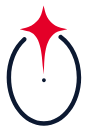
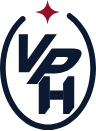
Use final VPH Haulage mark in Signature Studio
Claude-Session: https://claude.ai/code/session_01RbwAuCJofvvzkrLToRYbsK

diff --git a/public/signature.html b/public/signature.html
@@ -74,7 +74,7 @@ textarea{position:absolute;left:-9999px}
 // Shared signature builder: email-safe table HTML, inline styles only.
 function vpcSignature(o){
   const B = o.brand==='haulage'
-    ? {ink:'#0C1931',accent:'#970F27',org:'VirgoPoint Haulage',sub:'A Member of Virgo Point Capital',logo:o.logoBase+'haulage-sig-mark@2x.png',lw:44,lh:66,line:'Built on trust.'}
+    ? {ink:'#0C1931',accent:'#970F27',org:'VirgoPoint Haulage',sub:'A Member of Virgo Point Capital',logo:o.logoBase+'haulage-sig-mark@2x.png',lw:48,lh:65,line:'Built on trust.'}
     : {ink:'#0C1931',accent:'#E40028',org:'Virgo Point Capital',sub:'',logo:o.logoBase+'vpc-sig-emblem@2x.png',lw:48,lh:65,line:'move with legacy…'};
   const esc=s=>String(s||'').replace(/&/g,'&amp;').replace(/</g,'&lt;').replace(/>/g,'&gt;');
   const tel=s=>esc(s);
@@ -102,7 +102,7 @@ function vpcSignature(o){
 const LOGO_BASE='https://vpc.com.ng/brand/email/';
 const $=id=>document.getElementById(id);
 function data(){return {brand:document.querySelector('input[name=brand]:checked').value,name:$('name').value.trim()||'Your name',title:$('title').value.trim()||'Your role',phone:$('phone').value.trim(),mobile:$('mobile').value.trim(),email:$('email').value.trim()||'you@vpc.com.ng',linkedin:$('linkedin').value.trim(),address:$('address').value,logoBase:LOGO_BASE};}
[2 lines of base64/hex data omitted]
 /* Preview shows the embedded copy (viewers often block outside images); copied signature keeps the hosted URL email apps need. */
 function render(){let h=vpcSignature(data());for(const k in EMBED){h=h.split(LOGO_BASE+k).join(EMBED[k]);}$('out').innerHTML=h;}
 document.querySelectorAll('#f input,#f select').forEach(el=>el.addEventListener('input',render));
